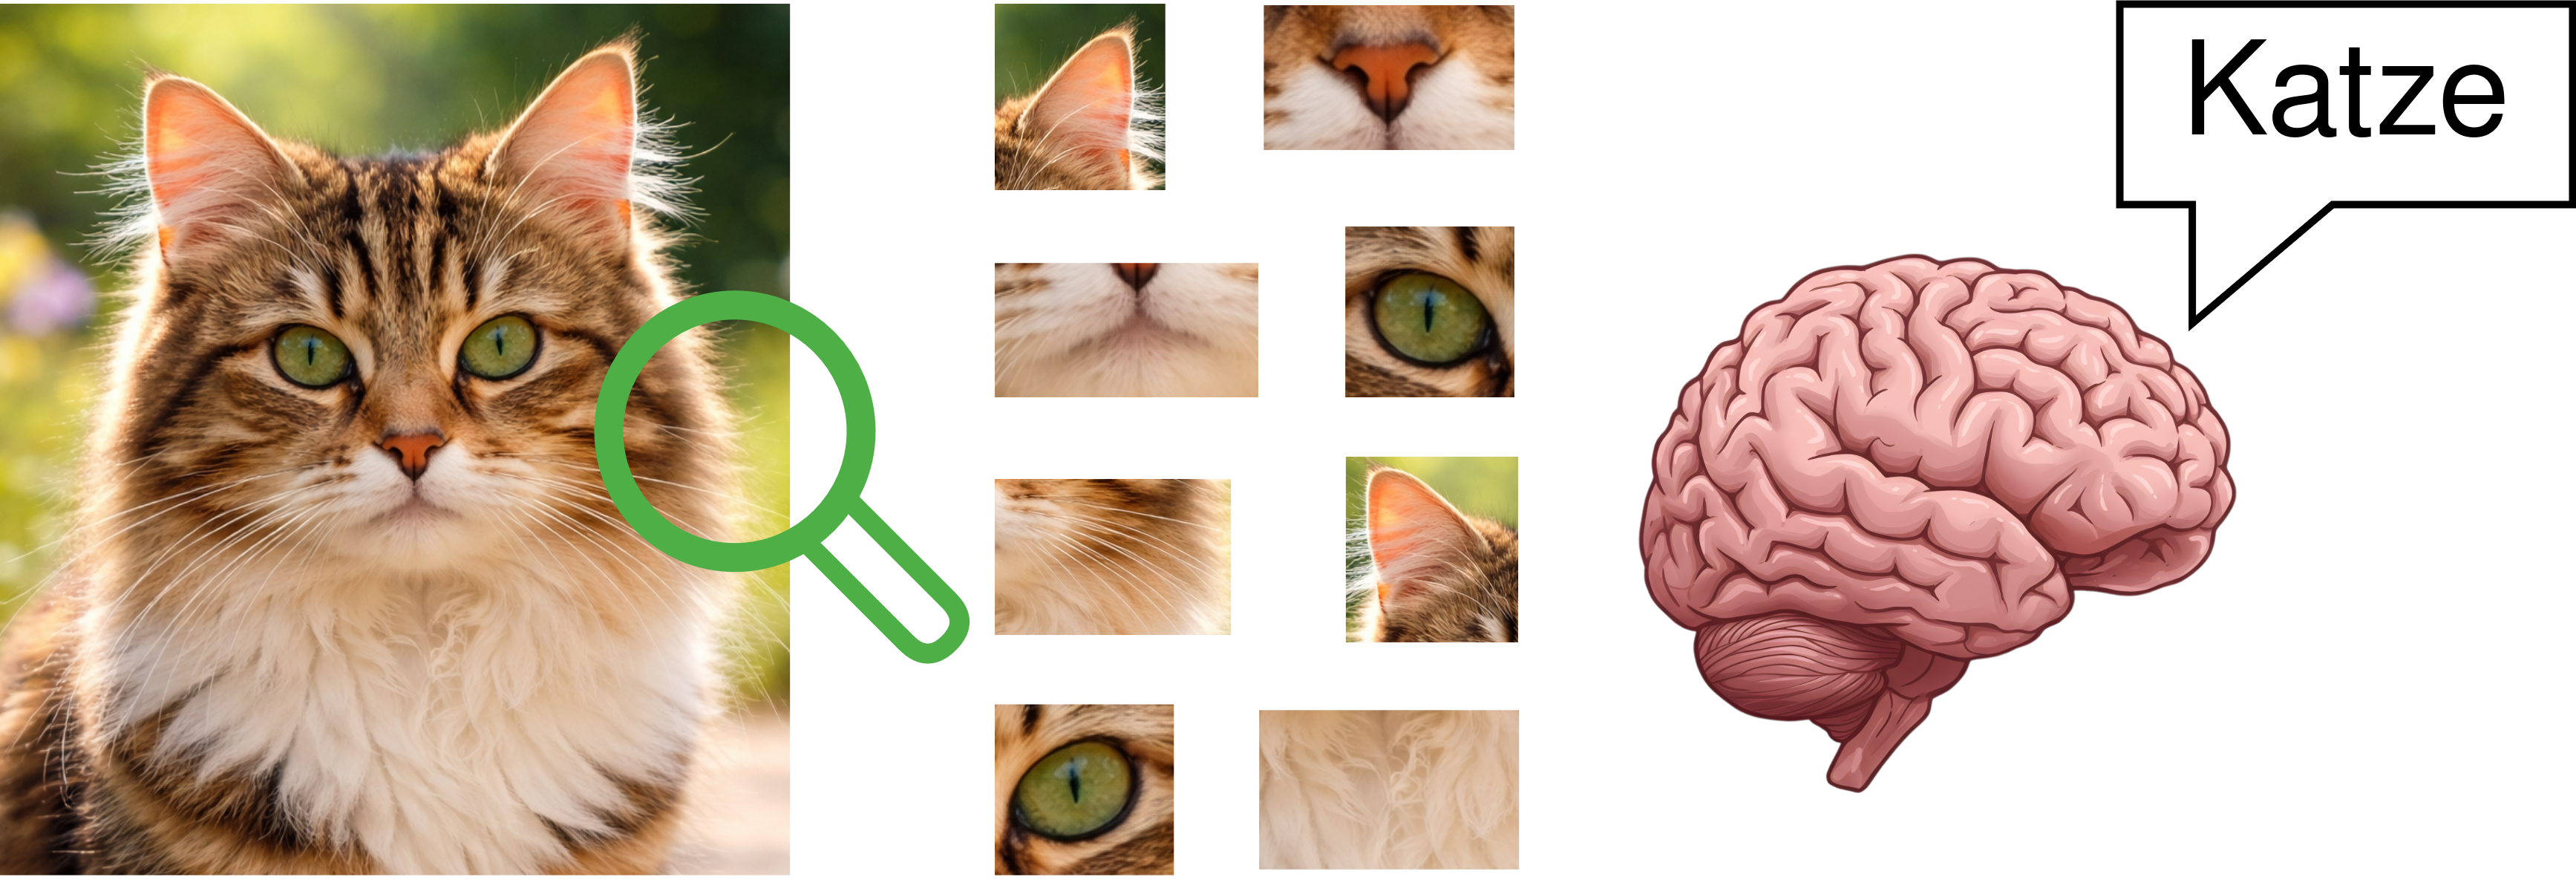
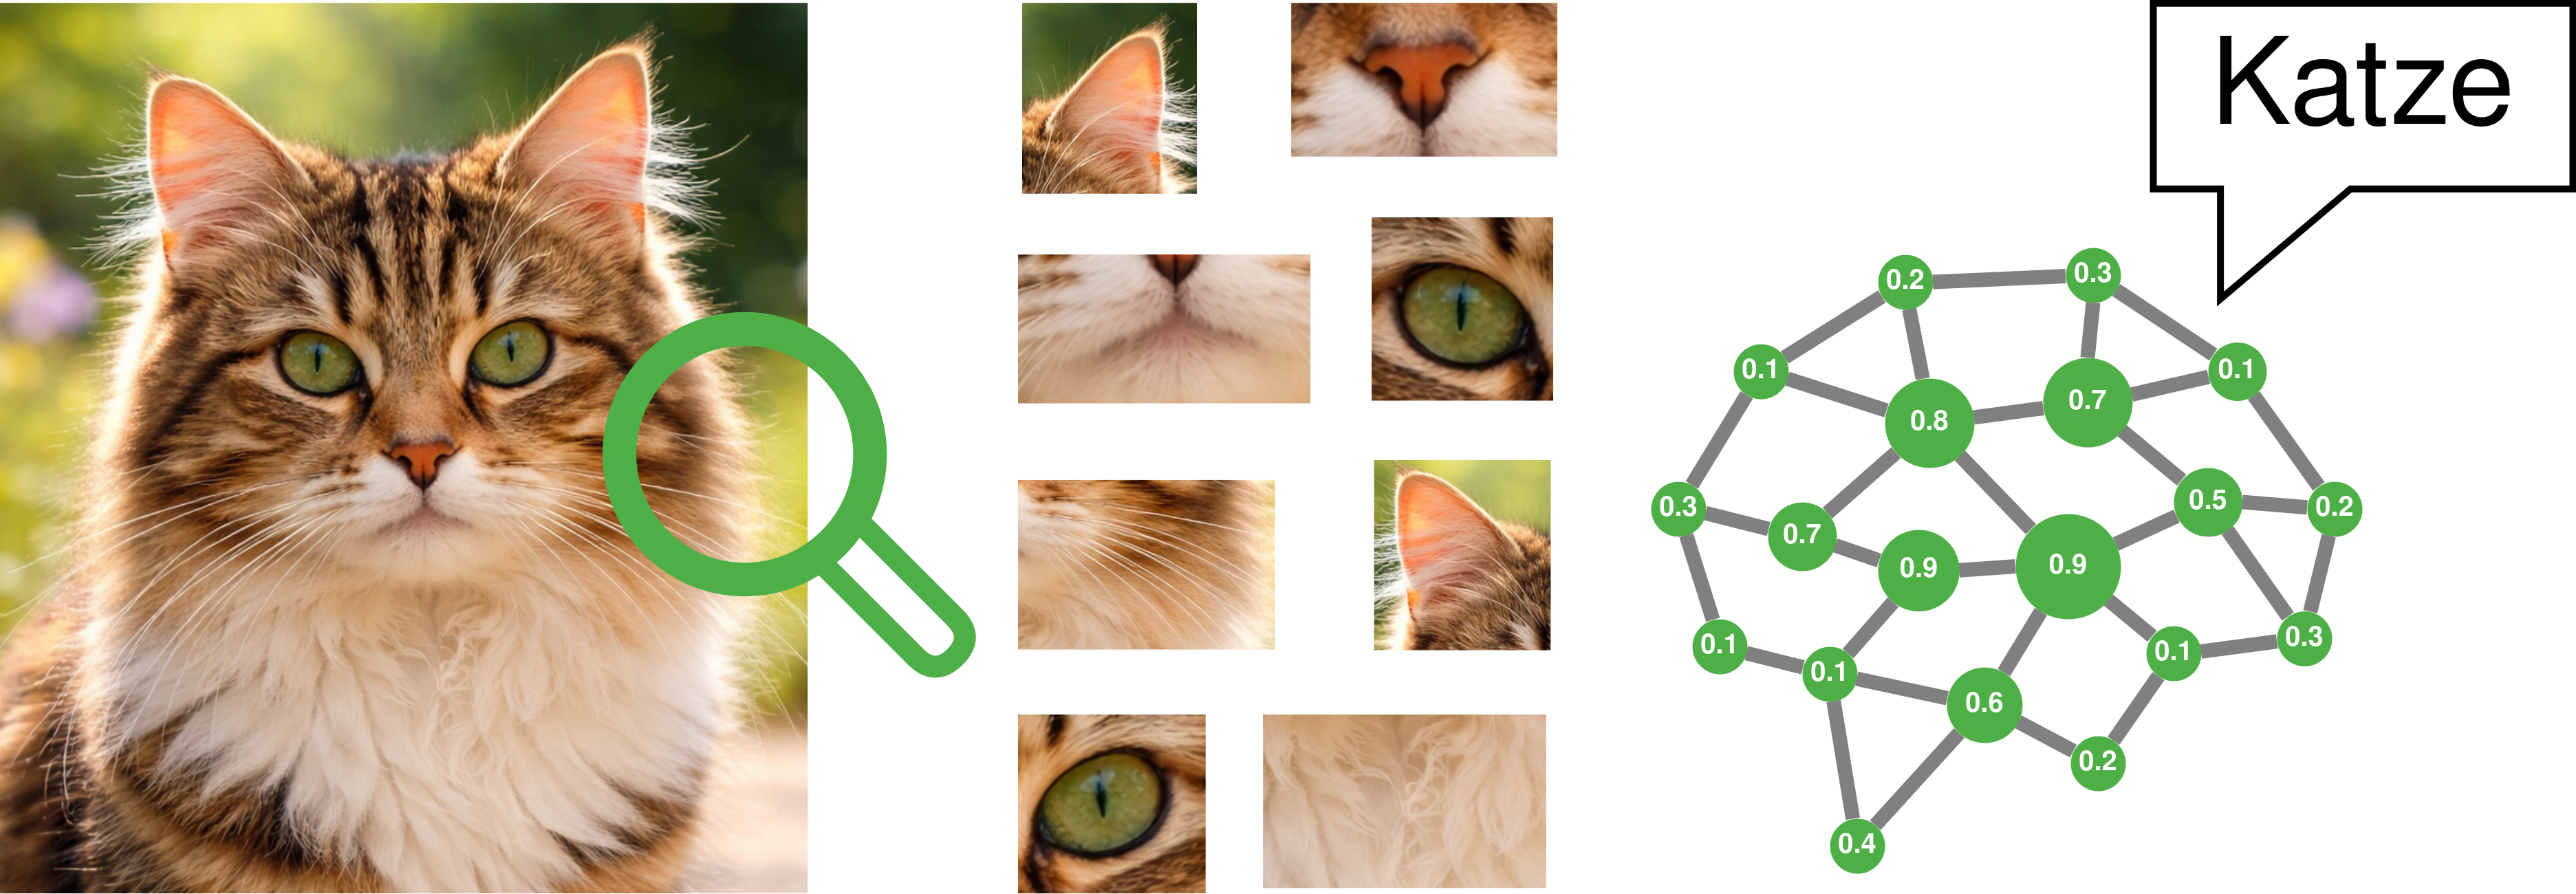
feat: help page

diff --git a/src/components/Pages/TeachableSensebox/translations/help/de/spells/cnn.md b/src/components/Pages/TeachableSensebox/translations/help/de/spells/cnn.md
@@ -10,11 +10,18 @@ Das Netz besteht aus vielen **Schichten** von **Neuronen**. In unserem Gehirn is
 
 Speziell für die Bildverarbeitung nutzen wir eine Art Neuron, das einen Bildausschnitt (also eine Gruppe an Pixeln) verarbeiten kann. Das Neuron nutzt einen **Filter** um sich seinen jeweilige Ausschnitt anzuschauen und berechnet daraus einen Ausgabewert. Wenn wir diese Neuronen zu einer Schicht zusammen setzen, ist jedes Neuron für jeweils einen anderen Bildausschnitt zuständig. Diese Art von Schicht nennen wir dann einen **Convolutional Layer**.
 
-![convolution](/media/teachable/padding_strides.gif)
-([Bildquelle](https://github.com/vdumoulin/conv_arithmetic]))
+![convolution](/media/teachable/conv.gif)
 
 Wenn wir ein Eingabebild mit einem Convolutional Layer verarbeiten, entsteht Ende quasi ein neues Bild, in dem wir sehen können, wie stark die einzelnen Neuronen auf ihre jeweiligen Pixelgruppen reagiert haben.
 
 Letztendlich erkennen die jeweiligen Convolutional Layer im Neuronalen Netz jeweils bestimmte Bild**merkmale**, wie Kanten, Formen und Muster.
 
-<Erklärbild>
+![trained](/media/teachable/trained.png)
+
+---
+
+# Der Covolutional Layer als Metapher
+
+Stell dir vor die Neuronen des Convolutional Layers als Besucher in einem Kino vor. Wir können den Neuronen nun bestimmte "Brillen" geben (sogenannte **Filter**), die beeinflussen, wie die Neuronen den Film warnehmen. Mit einer Lesebrille sehen die Neuronen alles unscharf, mit einer Lupe sieht der Film ganz klein oder mit einem Fernglas ganz groß aus.
+
+![cinema metaphor](/media/teachable/cinema.png)

diff --git a/src/components/Pages/TeachableSensebox/translations/help/en/spells/cnn.md b/src/components/Pages/TeachableSensebox/translations/help/en/spells/cnn.md
@@ -10,9 +10,14 @@ The network consists of many **layers** of **neurons**. In our brain, a neuron i
 
 Specifically for image processing, we use a type of neuron that can process a small **image section** (that is, a group of pixels). The neuron uses a **filter** to examine its particular section and calculates an output value from it. When we combine these neurons into a layer, each neuron is responsible for a **specific area** of the image and its corresponding group of pixels. We call this type of layer a **convolutional layer**. When we process an input image with a convolutional layer, the result is, in a way, a new image in which we can see how strongly the individual neurons responded to their respective groups of pixels.
 
-![convolution](/media/teachable/padding_strides.gif)
-([image source](https://github.com/vdumoulin/conv_arithmetic]))
+![convolution](/media/teachable/conv.gif)
 
 Ultimately, the different convolutional layers in the neural network detect specific image **features**, such as edges, shapes, and patterns.
 
-<explanatory image>
+![trained](/media/teachable/trained.png)
+
+# The Convolutional Layer as a Metapher
+
+Imagine the neurons of the convolutional layer as visitors in a cinema. We can now give the neurons certain “glasses” — a.k.a. certain **filters** — that influence how the neurons perceive the film. With reading glasses, the neurons see everything blurry; with a magnifying glass, the film looks very small; and with binoculars, it looks very large.
+
+![cinema metaphor](/media/teachable/cinema.png)